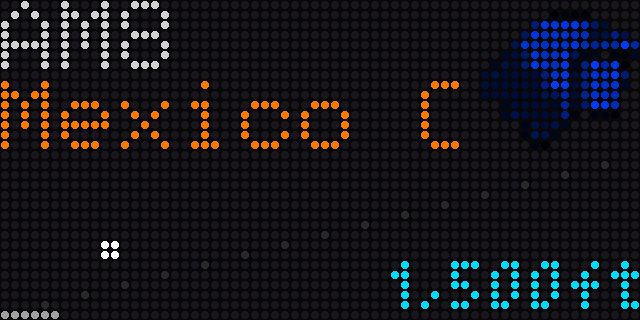
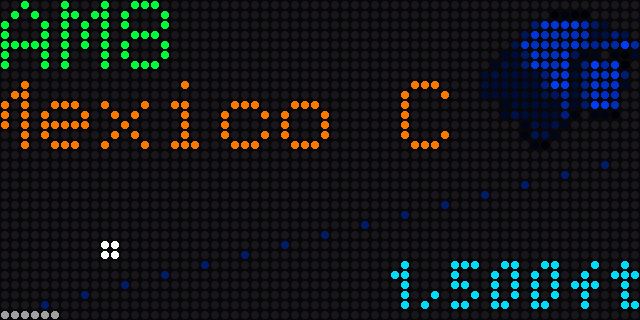
fix: Airport's flight number is green and its path ahead dim blue
White on the panel read harsh: the plane is now the only white thing. The
number (and the airport's code on a quiet sky) is green, the heights flown
stay amber, and the path still to fly is a dim blue instead of a grey that
read as dim white.

diff --git a/src/project/modes/mode_airport.cpp b/src/project/modes/mode_airport.cpp
@@ -228,9 +228,11 @@ static bool airportFetch(char *err, size_t err_n) {
 
 // ---- drawing (loop task) ----------------------------------------------------
 
-static const uint16_t C_NUMBER = rgb565(210, 210, 210);
+// No white but the plane: the number green, the path ahead a dim blue
+// guide (a dim grey read as dim white), the heights flown the place's amber.
+static const uint16_t C_NUMBER = rgb565(0, 255, 60);
 static const uint16_t C_PLACE  = rgb565(255, 120, 0);
-static const uint16_t C_PATH   = rgb565(40, 40, 40);
+static const uint16_t C_PATH   = rgb565(0, 30, 110);
 static const uint16_t C_FLOWN  = rgb565(255, 120, 0);   // the place's amber
 static const uint16_t C_RUNWAY = rgb565(160, 160, 160);
 static const uint16_t C_PLANE  = rgb565(255, 255, 255);

diff --git a/test/host_render/host_render.cpp b/test/host_render/host_render.cpp
@@ -401,7 +401,7 @@ int main(int argc, char **argv) {
   // BAW249 at 5.4 nm climbing out for Rio, TAP1366 at 8.6 nm in from Lisbon.
   {
     const uint16_t C_PLACE = rgb565(255, 120, 0), C_RUNWAY = rgb565(160, 160, 160);
-    const uint16_t C_PLANE = rgb565(255, 255, 255), C_NUMBER = rgb565(210, 210, 210);
+    const uint16_t C_PLANE = rgb565(255, 255, 255), C_NUMBER = rgb565(0, 255, 60);
     auto planeOnChart = [&]() {
       for (int y = 16; y < MATRIX_H; y++) for (int x = 0; x < MATRIX_W; x++) if (px(x, y) == C_PLANE) return true;
       return false;
